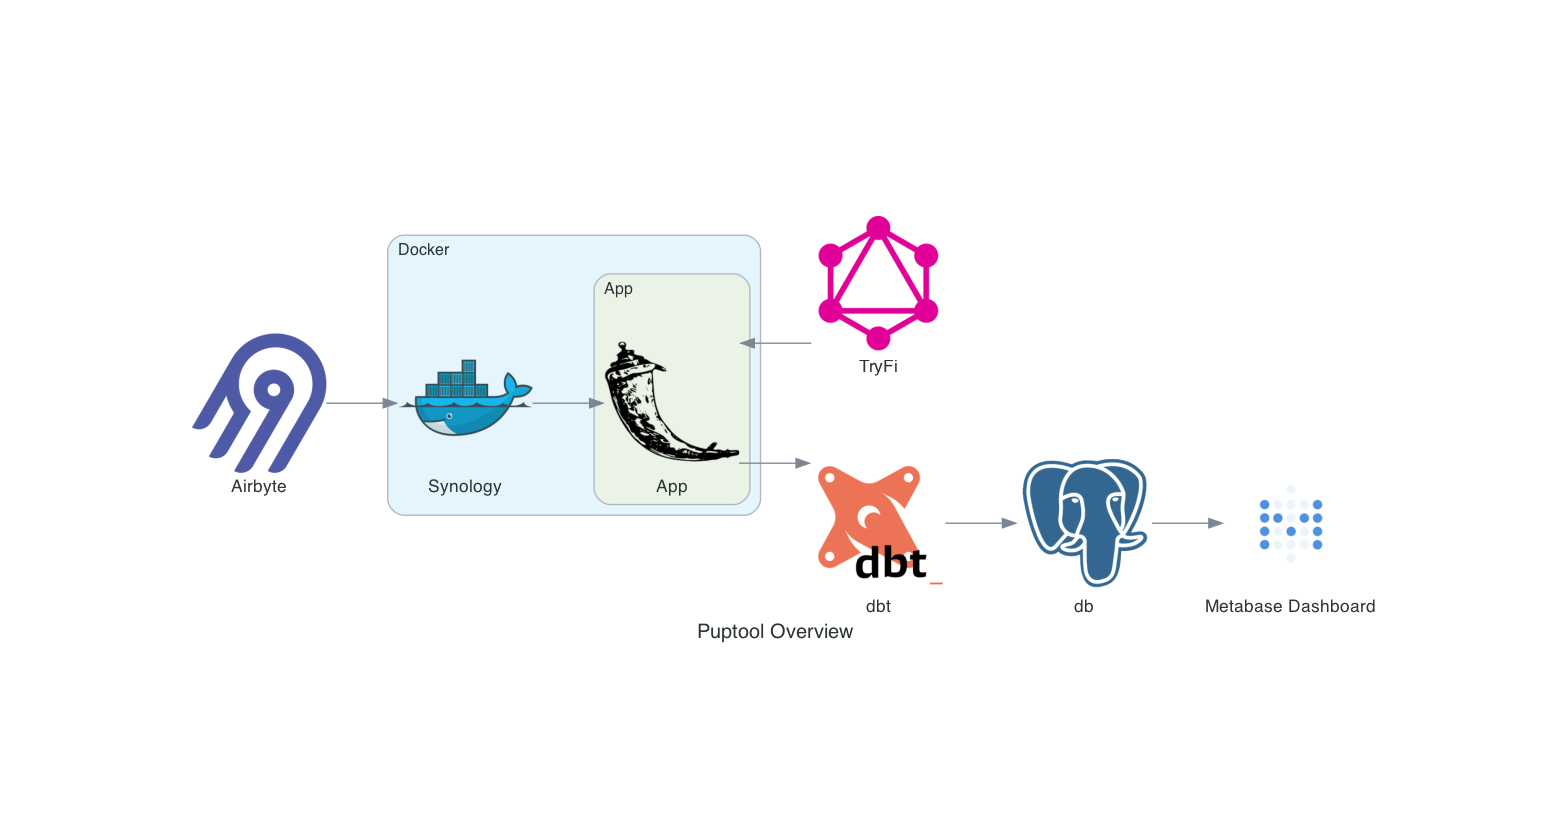
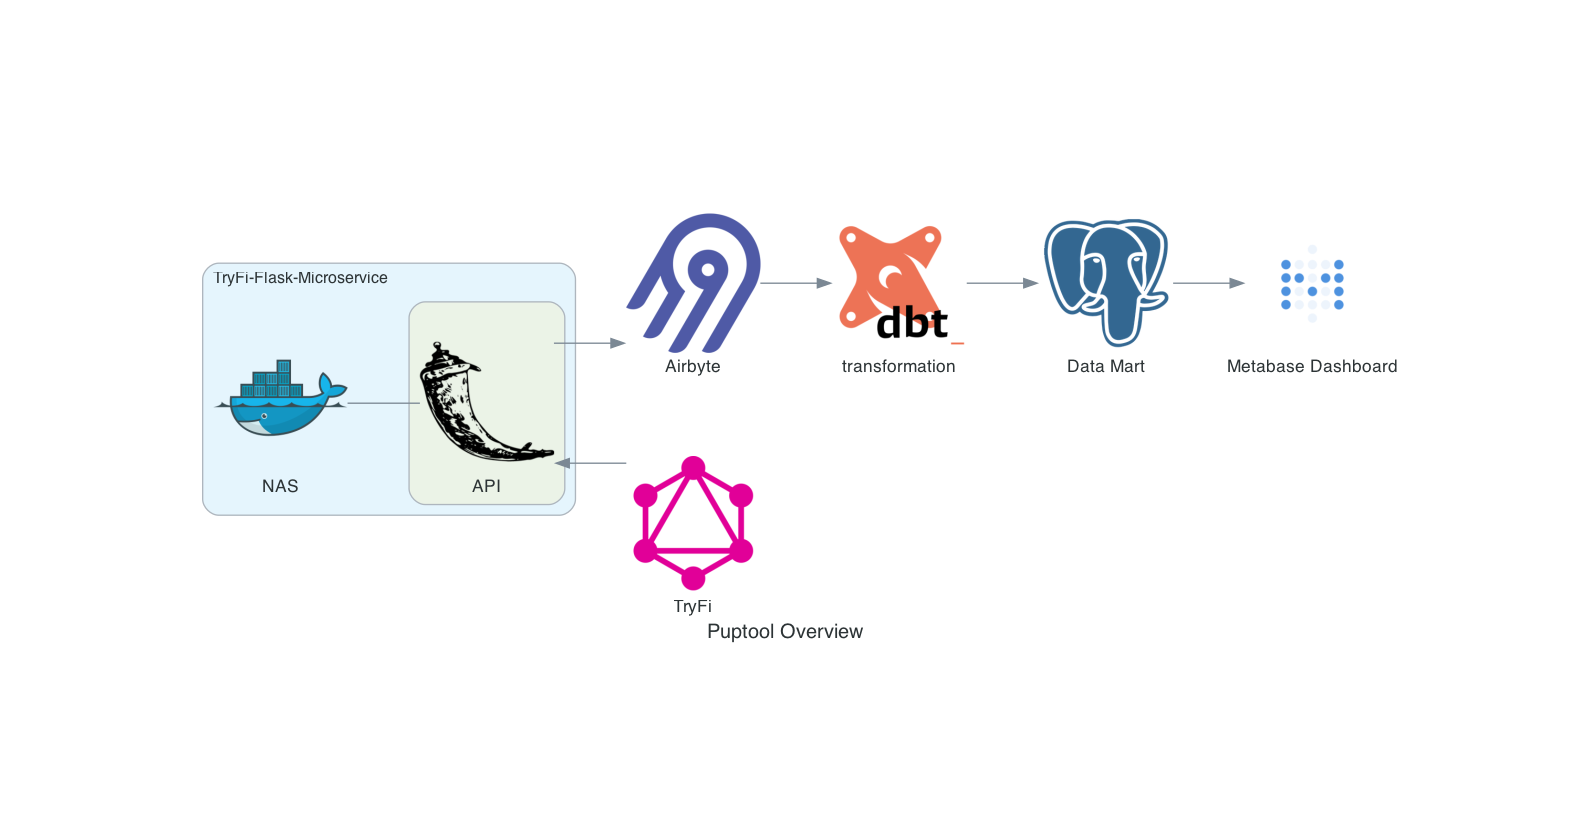
Updated diagram

diff --git a/assets/architecture.py b/assets/architecture.py
@@ -10,10 +10,16 @@ with Diagram("Puptool Overview", show=True, direction="LR"):
 
     airbyte = Custom("Airbyte", "airbyte.png")
 
-    with Cluster("Docker"):
-        docker = Docker("Synology")
-        with Cluster("App"):
-            app = Flask("App")
+    with Cluster("TryFi-Flask-Microservice"):
+        docker = Docker("NAS")
+        with Cluster(""):
+            app = Flask("API")
 
     app << GraphQL("TryFi") 
-    airbyte >> docker >> app >> Dbt("dbt") >> Postgresql("db") >> Metabase("Metabase Dashboard")
+    docker - app >>  airbyte >> Dbt("transformation") >> Postgresql("Data Mart") >> Metabase("Metabase Dashboard")
+
+# Instructions to generate: 
+#
+# source env/bin/activate
+# pip install diagrams 
+# python architecture.py

diff --git a/README.md b/README.md
@@ -15,7 +15,7 @@ You can deploy to your localhost running on port 8000 with Docker Compose:
 docker compose up -d
 ```
 
-Updating the package can be done by uninstalling pytryfi:
+Updating the package can be done by uninstalling pytryfi locally before building:
 ```bash
 pip uninstall pytryfi
 ```
@@ -51,6 +51,10 @@ Returns a list of steps from the previous 14 days.
 ## Purpose
 
 ![Overall Architecture](assets/puptool_overview.png)
+
+The TryFi Microservice used in a simple data pipeline. Airbyte calls the microservice and handles the Extraction and Load into a local data warehouse before transforming with dbt for analysis in Metabase. 
+
+Diagram generated using [Diagrams](https://diagrams.mingrammer.com/)
 
 ## Contributing
 
